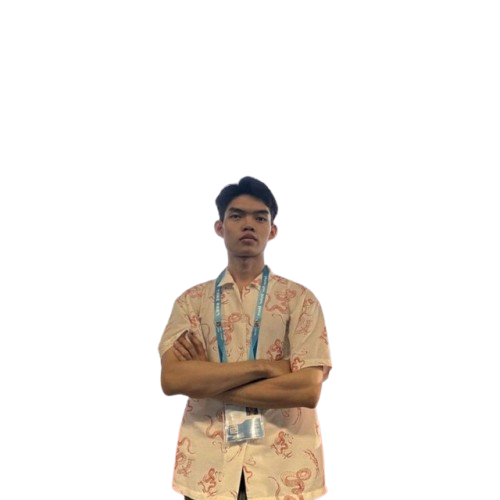
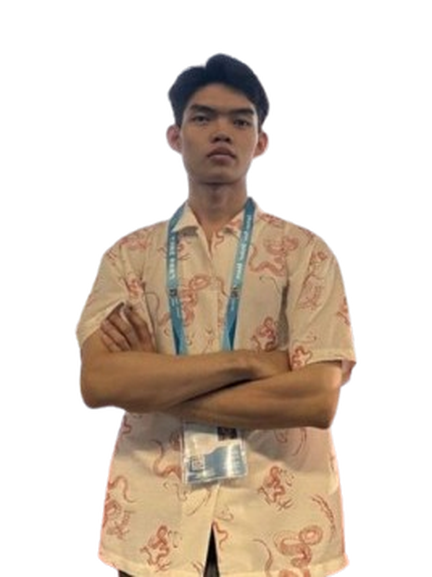
Scale STEM photo to match engineer cutout and show it on a transparent background
Crop me_in_stem.png tight around the figure at the same 432x577 aspect as
the engineer image, and render it as a plain cutout instead of inside the
dark boxed wrapper.

Claude-Session: https://claude.ai/code/session_01CF9pYzJSX76ejv1SN5kaVn

diff --git a/index.html b/index.html
@@ -204,11 +204,7 @@
 
                             <!-- Side C: STEM Physics Instructor -->
                             <div class="cutout-face cutout-side-c">
-                                <div class="robot-img-wrapper stem-wrapper">
-                                    <div class="robot-corner-hud stem-hud">STEM // PHYSICS TEACH</div>
-                                    <img src="me_in_stem.png" alt="Chorn Philip - STEM Physics Instructor" class="subject-cutout robot-cutout" id="stem-img" style="object-position:center top;" loading="lazy">
-                                    <div class="robot-glow-edge stem-glow-edge"></div>
-                                </div>
+                                <img src="me_in_stem.png" alt="Chorn Philip - STEM Physics Instructor" class="subject-cutout" id="stem-img" loading="lazy">
                                 <div class="role-badge-tag tag-purple">
                                     <span class="role-icon">🎓</span>
                                     <span data-i18n="hero.roleStem">STEM &amp; PHYSICS INSTRUCTOR</span>
